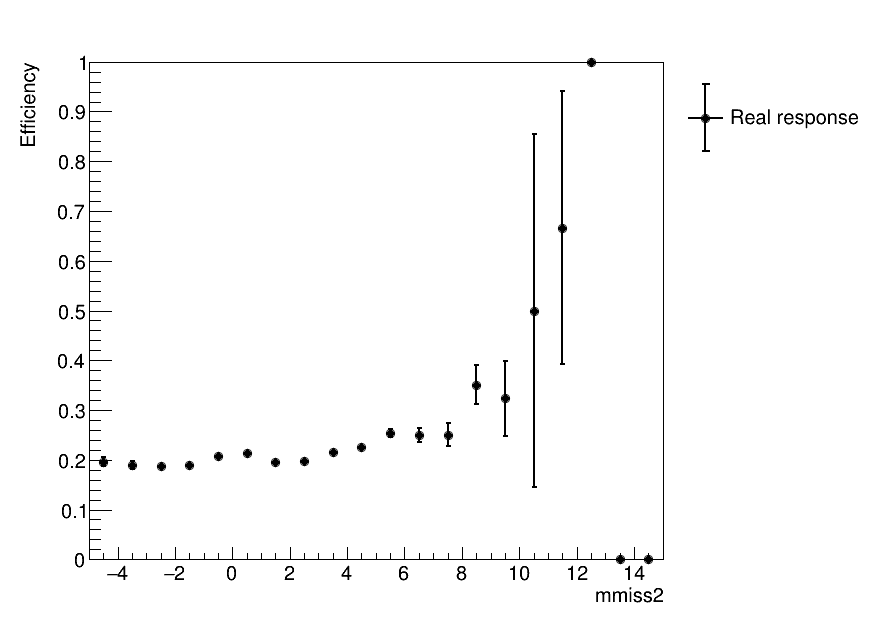
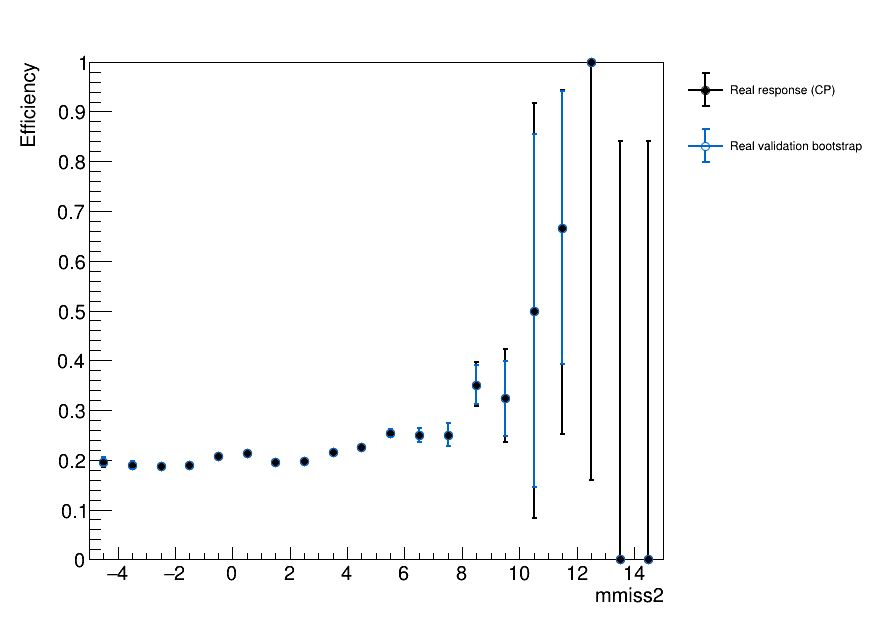
Compare real validation bootstrap with CP intervals

diff --git a/scripts/bootstrap_l0hadron/l0bootstrap/pipeline.py b/scripts/bootstrap_l0hadron/l0bootstrap/pipeline.py
@@ -257,10 +257,10 @@ class Pipeline:
                 if self._plot_kind_enabled("real-validation") and real_validation_error is not None:
                     efficiency_plot(
                         self.paths.plots / f"{branch.name}_real_validation_uncertainty.png",
-                        "Real-response validation bootstrap",
+                        "Real validation bootstrap vs. Clopper-Pearson",
                         branch,
                         real_eff=central_real,
-                        real_error=real_validation_error,
+                        real_validation_error=real_validation_error,
                     )
 
                 if self._plot_kind_enabled("emu-validation") and emu_validation_outputs:
@@ -371,7 +371,12 @@ class Pipeline:
         return not self.plot_kinds or bool(self.plot_kinds & one_dimensional)
 
     def _real_validation_overlay_enabled(self):
-        kinds_with_overlay = {"xgb-weights", "train-test", "real-validation", "emu-validation"}
+        kinds_with_overlay = {
+            "xgb-weights",
+            "train-test",
+            "real-validation",
+            "emu-validation",
+        }
         return not self.plot_kinds or bool(self.plot_kinds & kinds_with_overlay)
 
     def _plot_branch_enabled(self, name):
